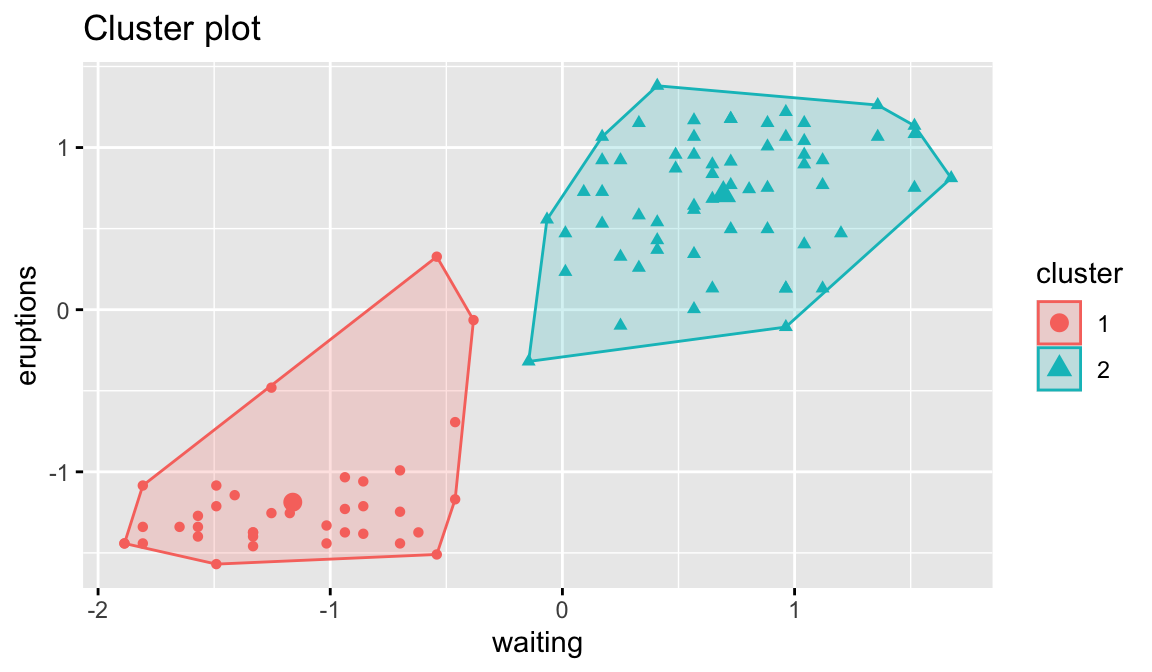
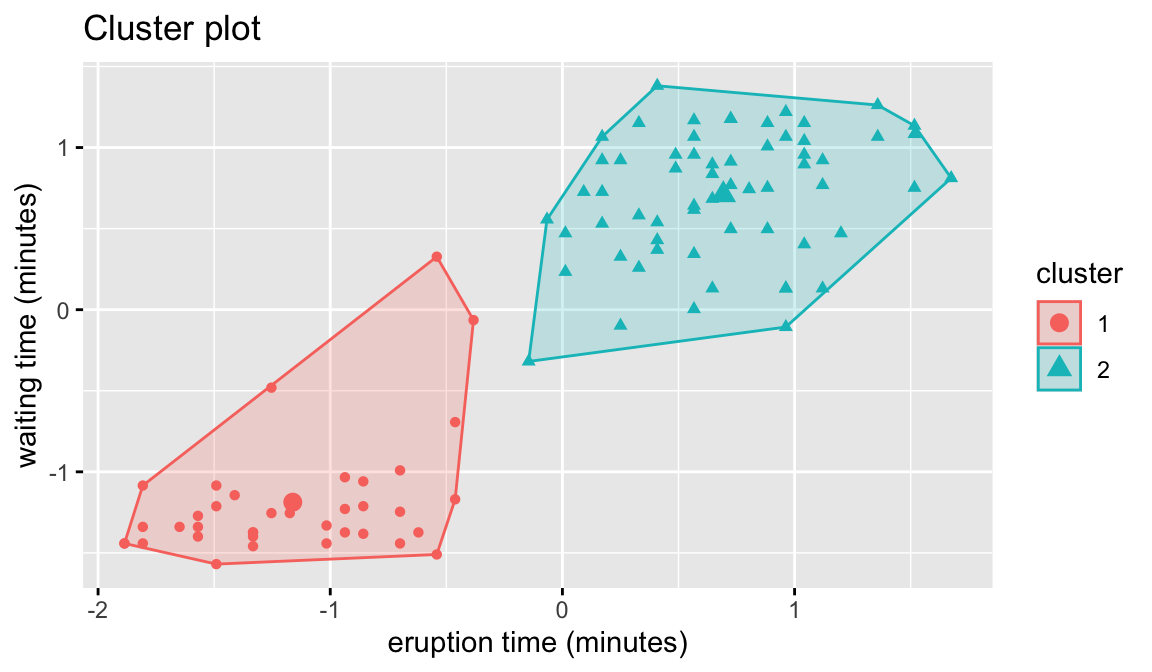
clustering

Changed region(s): [[0.0, 0.2812, 0.0312, 0.6875], [0.3438, 0.9375, 0.5938, 0.9688]]

diff --git a/docs/8-(un)supervisedLearning.html b/docs/8-(un)supervisedLearning.html
@@ -521,7 +521,10 @@ Result_label     not successful successful
 <div class="cell-output cell-output-stderr">
 <pre><code>Welcome! Want to learn more? See two factoextra-related books at https://goo.gl/ve3WBa</code></pre>
 </div>
-<div class="sourceCode cell-code" id="cb28"><pre class="sourceCode r code-with-copy"><code class="sourceCode r"><span id="cb28-1"><a href="#cb28-1" aria-hidden="true" tabindex="-1"></a><span class="fu">fviz_cluster</span>(kmean_res , <span class="at">data =</span> old_faithful <span class="sc">%&gt;%</span> <span class="fu">select</span>(waiting, eruptions), <span class="at">geom =</span> <span class="st">"point"</span>)</span></code><button title="Copy to Clipboard" class="code-copy-button"><i class="bi"></i></button></pre></div>
+<div class="sourceCode cell-code" id="cb28"><pre class="sourceCode r code-with-copy"><code class="sourceCode r"><span id="cb28-1"><a href="#cb28-1" aria-hidden="true" tabindex="-1"></a><span class="fu">fviz_cluster</span>(kmean_res , <span class="at">data =</span> old_faithful <span class="sc">%&gt;%</span> <span class="fu">select</span>(waiting, eruptions), </span>
+<span id="cb28-2"><a href="#cb28-2" aria-hidden="true" tabindex="-1"></a>             <span class="at">geom =</span> <span class="st">"point"</span>,</span>
+<span id="cb28-3"><a href="#cb28-3" aria-hidden="true" tabindex="-1"></a>             <span class="at">ylab =</span> <span class="st">"waiting time (minutes)"</span>,</span>
+<span id="cb28-4"><a href="#cb28-4" aria-hidden="true" tabindex="-1"></a>             <span class="at">xlab =</span> <span class="st">"eruption time (minutes)"</span>)</span></code><button title="Copy to Clipboard" class="code-copy-button"><i class="bi"></i></button></pre></div>
 <div class="cell-output-display">
 <div>
 <figure class="figure">
@@ -534,7 +537,9 @@ Result_label     not successful successful
 <div class="cell">
 <div class="sourceCode cell-code" id="cb29"><pre class="sourceCode r code-with-copy"><code class="sourceCode r"><span id="cb29-1"><a href="#cb29-1" aria-hidden="true" tabindex="-1"></a><span class="fu">ggplot</span>(old_faithful_res, <span class="fu">aes</span>(<span class="at">x =</span> waiting, <span class="at">y =</span> eruptions, <span class="at">colour =</span> <span class="fu">as.factor</span>(cluster))) <span class="sc">+</span></span>
 <span id="cb29-2"><a href="#cb29-2" aria-hidden="true" tabindex="-1"></a>  <span class="fu">geom_point</span>() <span class="sc">+</span></span>
-<span id="cb29-3"><a href="#cb29-3" aria-hidden="true" tabindex="-1"></a>  <span class="fu">labs</span>(<span class="at">colour =</span> <span class="st">"cluster"</span>)</span></code><button title="Copy to Clipboard" class="code-copy-button"><i class="bi"></i></button></pre></div>
+<span id="cb29-3"><a href="#cb29-3" aria-hidden="true" tabindex="-1"></a>  <span class="fu">labs</span>(<span class="at">colour =</span> <span class="st">"cluster"</span>) <span class="sc">+</span></span>
+<span id="cb29-4"><a href="#cb29-4" aria-hidden="true" tabindex="-1"></a>  <span class="fu">ylab</span>(<span class="st">"waiting time (minutes)"</span>) <span class="sc">+</span></span>
+<span id="cb29-5"><a href="#cb29-5" aria-hidden="true" tabindex="-1"></a>  <span class="fu">xlab</span>(<span class="st">"eruption time (minutes)"</span>)</span></code><button title="Copy to Clipboard" class="code-copy-button"><i class="bi"></i></button></pre></div>
 <div class="cell-output-display">
 <div>
 <figure class="figure">
